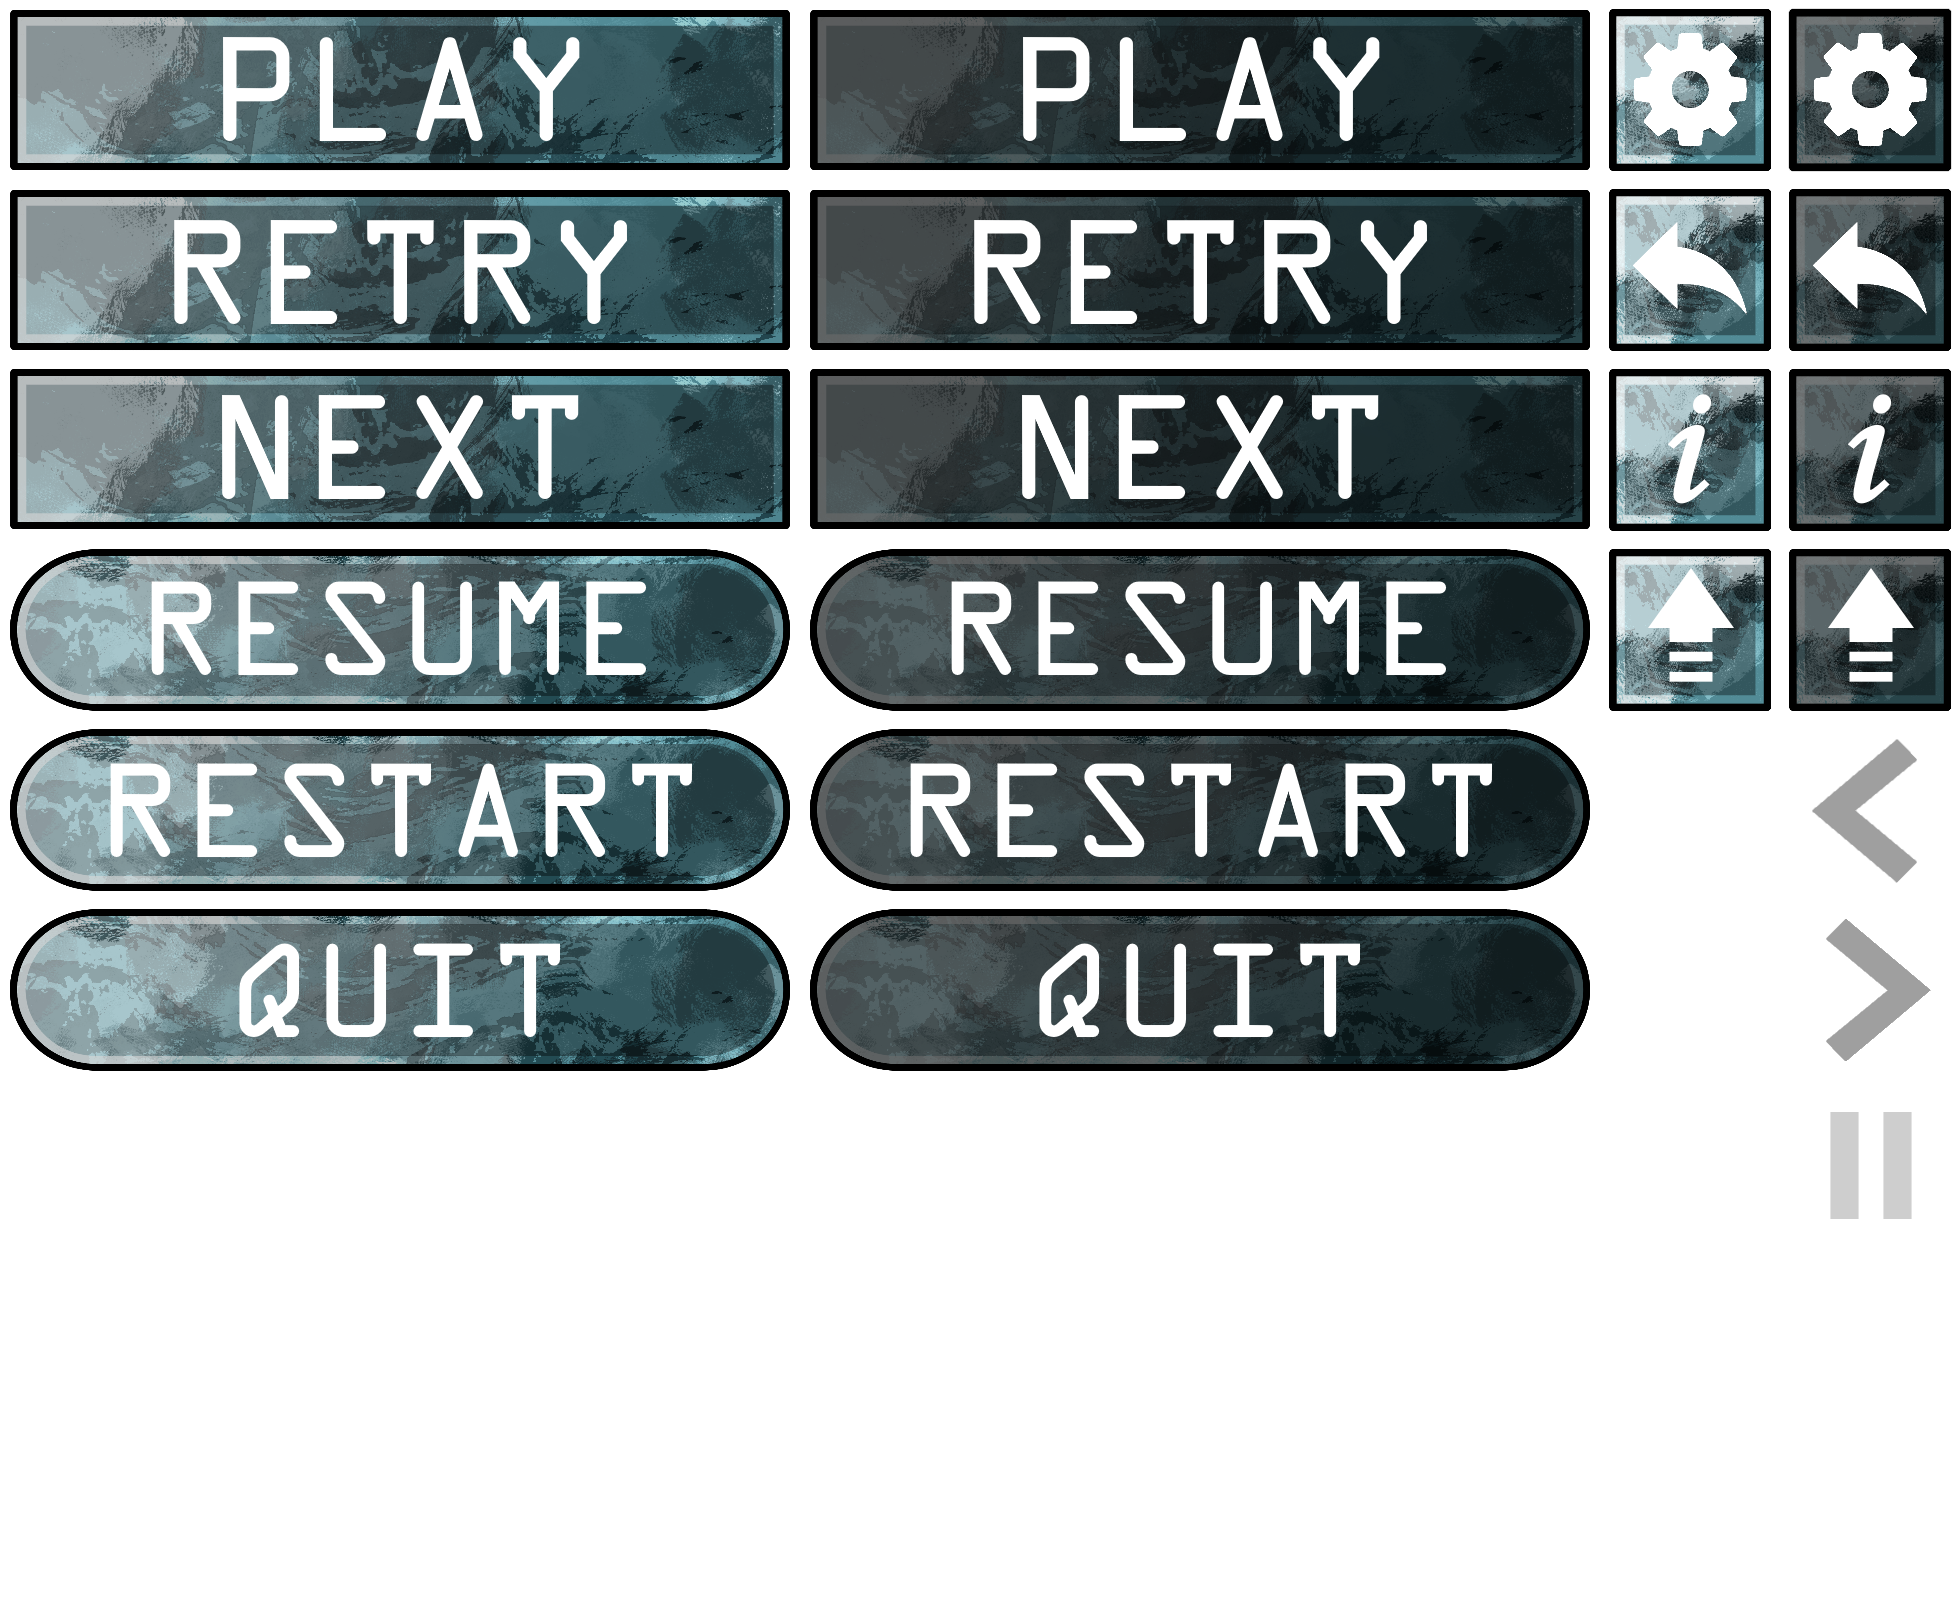
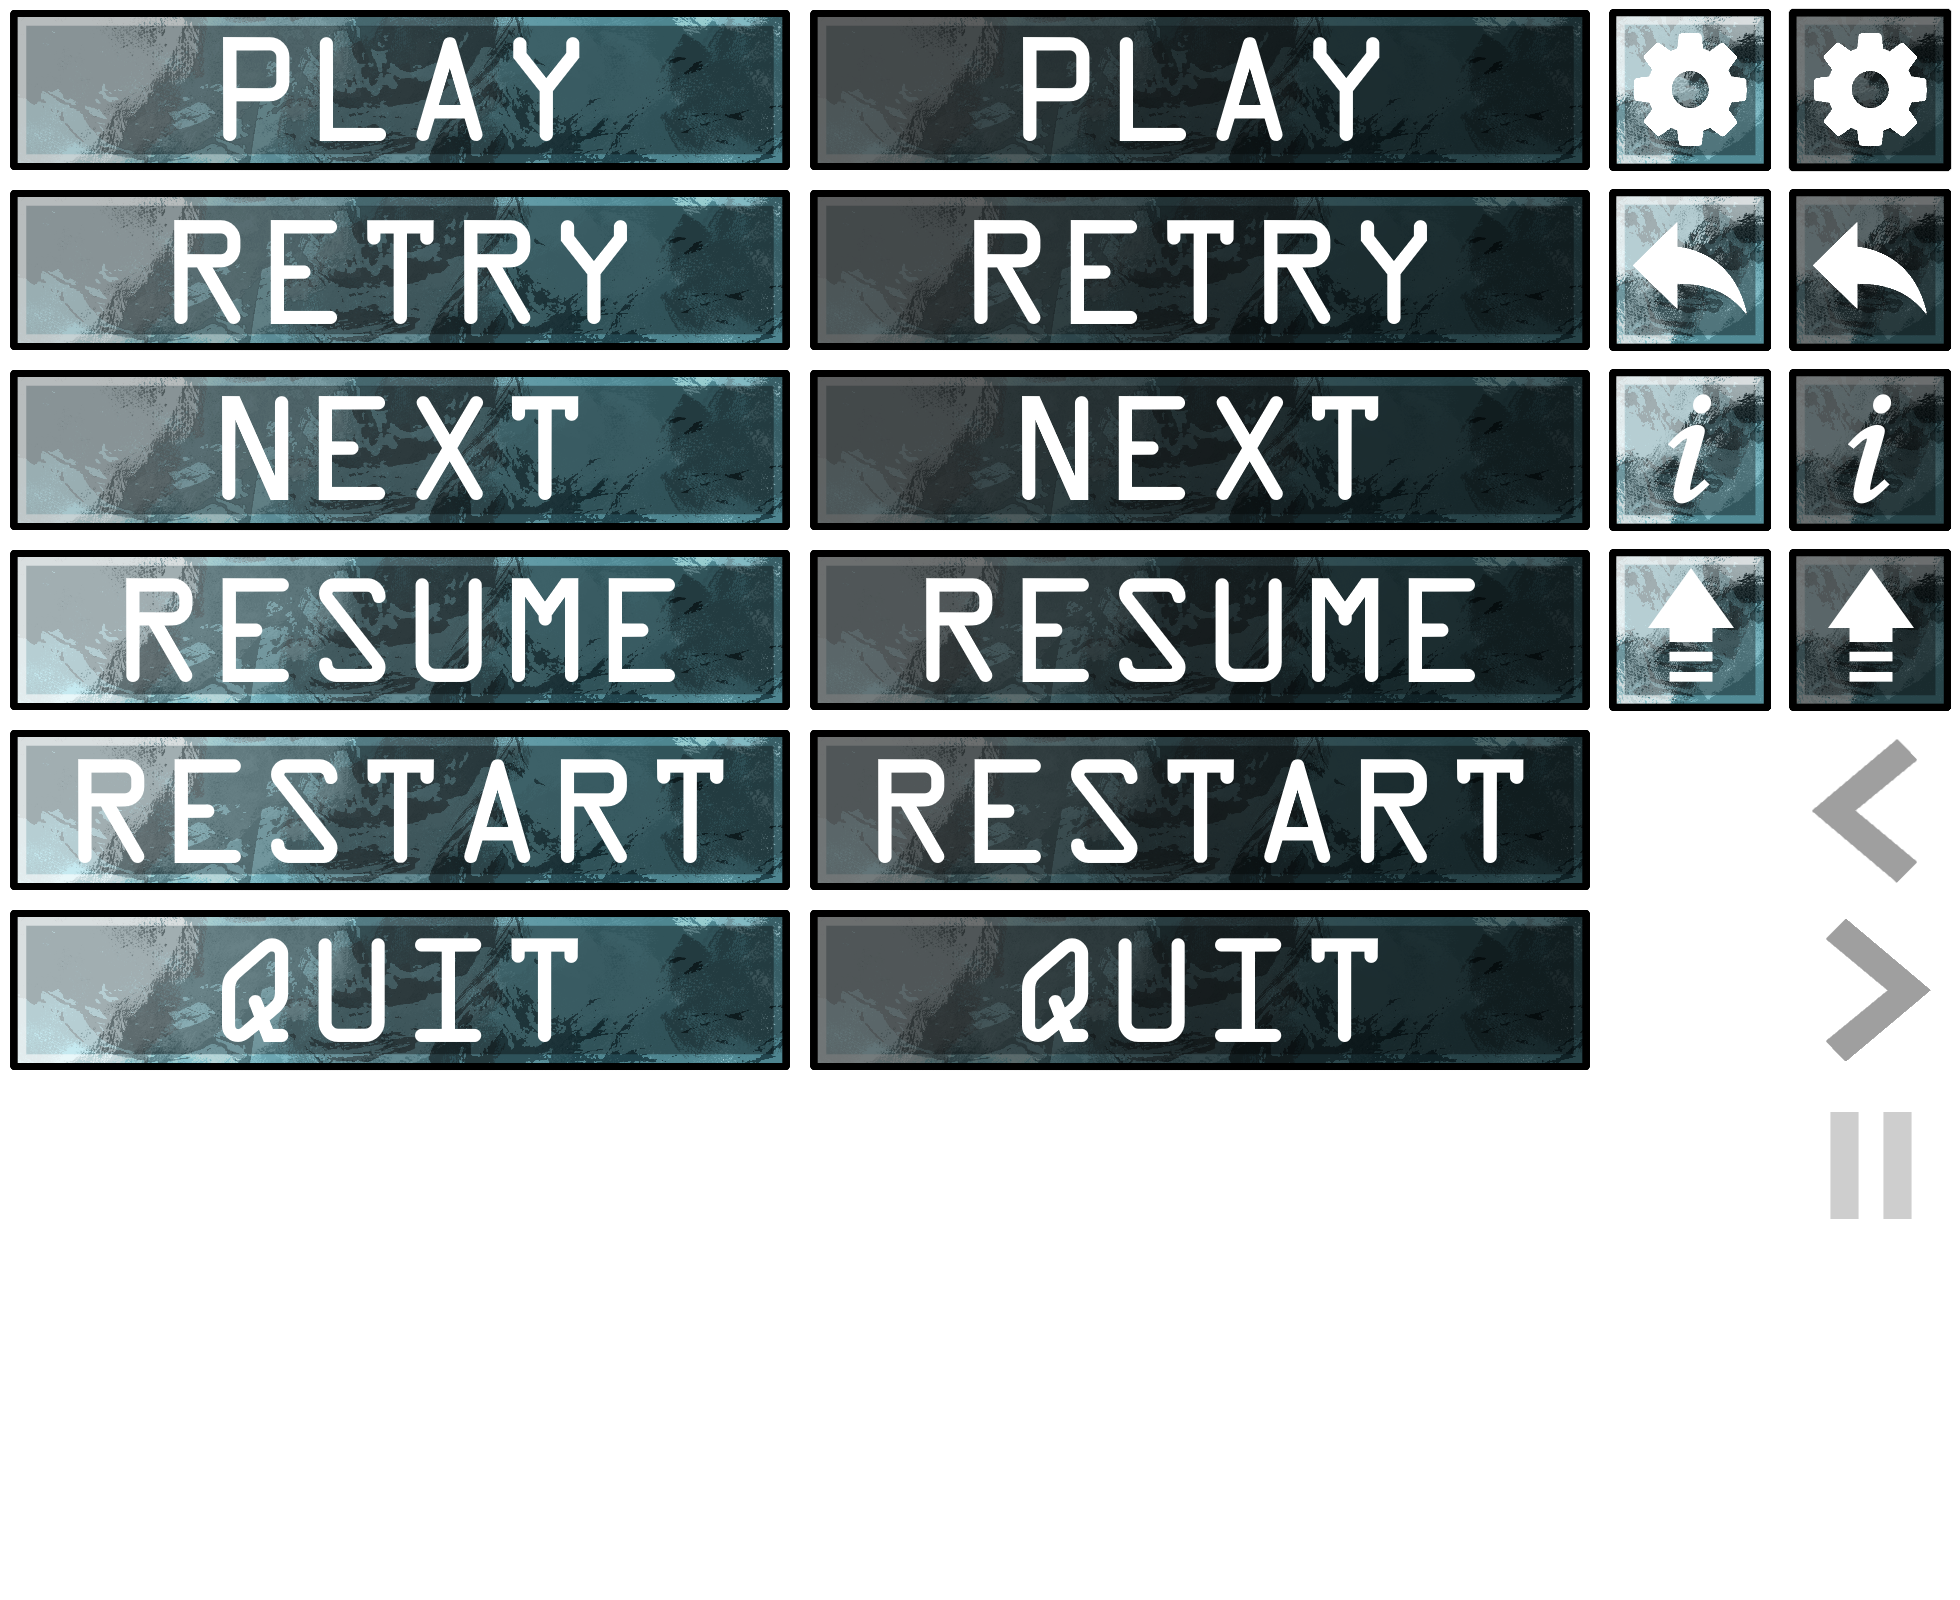
v1.0u1 Alpha
Standardized button format
Updated sprite sheets
Adjusted levels
Improved level win/loss screens
Added developer levels
Misc. minor changes

diff --git a/core/src/io/thebitspud/astroenvoys/levels/Level_Endless.java b/core/src/io/thebitspud/astroenvoys/levels/Level_Endless.java
@@ -32,32 +32,36 @@ public class Level_Endless extends Level {
 		final int y = Gdx.graphics.getHeight();
 		final int scrWidth = Gdx.graphics.getWidth(); // screen width
 
+		for(int i = 0; i < 4; i++) game.spawnEnemy(scrWidth / 8 * (i * 2 + 1), y + 100, EntityID.ASTEROID);
+
 		timers.add(new JTimerUtil(3.0, true, true) {
 			@Override
 			public void onActivation() {
 				game.spawnEnemy(r.nextInt(scrWidth - 100), y, EntityID.ASTEROID);
-				if(getTimerDuration() > 1.0) setTimerDuration(getTimerDuration() * 0.98f);
+				if(getTimerDuration() > 1.0) setTimerDuration(getTimerDuration() * 0.99f);
 			}
 		});
 
-		timers.add(new JTimerUtil(10.0, true, true) {
+		timers.add(new JTimerUtil(3.0, true, true) {
 			@Override
 			public void onActivation() {
 				game.spawnEnemy(r.nextInt(scrWidth - 120), y, EntityID.AZ_RAIDER);
-				if(getTimerDuration() > 2.5) setTimerDuration(getTimerDuration() * 0.95f);
+
+				if(getTimerDuration() == 3.0) setTimerDuration(6.0);
+				else if(getTimerDuration() > 2.5) setTimerDuration(getTimerDuration() * 0.98f);
 			}
 		});
 
-		timers.add(new JTimerUtil(40.0, true, true) {
+		timers.add(new JTimerUtil(20.0, true, true) {
 			@Override
 			public void onActivation() {
 				int x = r.nextInt(scrWidth * 3/5) + scrWidth / 5 - 75;
 				game.spawnEnemy(x, y, EntityID.AZ_HUNTER);
-				if(getTimerDuration() > 6.0) setTimerDuration(getTimerDuration() * 0.90f);
+				if(getTimerDuration() > 6.0) setTimerDuration(getTimerDuration() * 0.95f);
 			}
 		});
 
-		timers.add(new JTimerUtil(100.0, true, true) {
+		timers.add(new JTimerUtil(50.0, true, true) {
 			@Override
 			public void onActivation() {
 				game.spawnEnemy(r.nextInt(scrWidth - 150), y, EntityID.AZ_PREDATOR);
@@ -65,11 +69,11 @@ public class Level_Endless extends Level {
 			}
 		});
 
-		timers.add(new JTimerUtil(250.0, true, true) {
+		timers.add(new JTimerUtil(200.0, true, true) {
 			@Override
 			public void onActivation() {
 				game.spawnEnemy(scrWidth / 2 - 90, y, EntityID.AZ_REAPER);
-				if(getTimerDuration() > 18.0) setTimerDuration(getTimerDuration() * 0.84f);
+				if(getTimerDuration() > 25.0) setTimerDuration(getTimerDuration() * 0.80f);
 			}
 		});
 	}

diff --git a/core/src/io/thebitspud/astroenvoys/screens/WinScreen.java b/core/src/io/thebitspud/astroenvoys/screens/WinScreen.java
@@ -32,17 +32,39 @@ public class WinScreen implements Screen {
 		title.setPosition(midX - (title.getPrefWidth() / 2), Gdx.graphics.getHeight() * 0.75f);
 		title.setAlignment(Align.center);
 
-		ImageButton playButton = new ImageButton(app.assets.buttons[2][0], app.assets.buttons[2][1]);
+		ImageButton nextButton = new ImageButton(app.assets.buttons[2][0], app.assets.buttons[2][1]);
+		nextButton.addListener(new JInputListener() {
+			@Override
+			public void onClick() {
+				app.setScreen(app.levelSelectScreen);
+				app.levelSelectScreen.incrLevelIndex();
+			}
+		});
+		nextButton.setPosition(midX - 400, Gdx.graphics.getHeight() * 0.6f);
+
+		ImageButton playButton = new ImageButton(app.assets.buttons[1][0], app.assets.buttons[1][1]);
 		playButton.addListener(new JInputListener() {
+			@Override
+			public void onClick() {
+				app.setScreen(app.gameScreen);
+				app.gameScreen.game.init();
+			}
+		});
+		playButton.setPosition(midX - 400, Gdx.graphics.getHeight() * 0.45f);
+
+		ImageButton quitButton = new ImageButton(app.assets.buttons[5][0], app.assets.buttons[5][1]);
+		quitButton.addListener(new JInputListener() {
 			@Override
 			public void onClick() {
 				app.setScreen(app.levelSelectScreen);
 			}
 		});
-		playButton.setPosition(midX - 400, Gdx.graphics.getHeight() * 0.6f);
+		quitButton.setPosition(midX - 400, Gdx.graphics.getHeight() * 0.3f);
 
 		stage.addActor(title);
+		stage.addActor(nextButton);
 		stage.addActor(playButton);
+		stage.addActor(quitButton);
 		app.addLoadoutButton(stage);
 		app.addSettingsButton(stage);
 	}

diff --git a/core/src/io/thebitspud/astroenvoys/screens/LevelSelectScreen.java b/core/src/io/thebitspud/astroenvoys/screens/LevelSelectScreen.java
@@ -32,6 +32,8 @@ public class LevelSelectScreen implements Screen {
 		levels.add(new Level_2(app.gameScreen.game));
 		levels.add(new Level_3(app.gameScreen.game));
 		levels.add(new Level_4(app.gameScreen.game));
+		levels.add(new Level_Win(app.gameScreen.game));
+		levels.add(new Level_Loss(app.gameScreen.game));
 
 		currentLevelIndex = 1;
 	}
@@ -92,9 +94,7 @@ public class LevelSelectScreen implements Screen {
 		nextButton.addListener(new JInputListener() {
 			@Override
 			public void onClick() {
-				currentLevelIndex++;
-				if(currentLevelIndex >= levels.size()) currentLevelIndex = 0;
-				updateLevelText();
+				incrLevelIndex();
 			}
 		});
 		nextButton.setPosition((Gdx.graphics.getWidth() * 0.95f) - 180, Gdx.graphics.getHeight() * 0.30f);
@@ -149,5 +149,12 @@ public class LevelSelectScreen implements Screen {
 
 	public Level getSelectedLevel() {
 		return levels.get(currentLevelIndex);
+	}
+
+	public void incrLevelIndex() {
+		currentLevelIndex++;
+		if(currentLevelIndex >= levels.size()) currentLevelIndex = 0;
+
+		updateLevelText();
 	}
 }

diff --git a/core/src/io/thebitspud/astroenvoys/screens/GameScreen.java b/core/src/io/thebitspud/astroenvoys/screens/GameScreen.java
@@ -34,7 +34,7 @@ public class GameScreen implements Screen {
 		InputMultiplexer multiplexer = new InputMultiplexer(hud, gameInput);
 		Gdx.input.setInputProcessor(multiplexer);
 
-		healthIndicator = new Label("HP: 100%", app.assets.subTitleStyle);
+		healthIndicator = new Label("100%", app.assets.subTitleStyle);
 		healthIndicator.setPosition(Gdx.graphics.getWidth() * 0.05f, Gdx.graphics.getHeight() - 100);
 		healthIndicator.setColor(0, 1,0, 0.75f);
 
@@ -94,7 +94,7 @@ public class GameScreen implements Screen {
 	}
 
 	public void setHealthIndicatorText(float percent) {
-		healthIndicator.setText("HP: " + Math.round(percent) + "%");
+		healthIndicator.setText(Math.round(percent) + "%");
 		healthIndicator.setColor(Math.min(100 - percent, 100) / 100f, Math.min(percent, 100) / 100f, 0, 0.75f);
 	}
 }

diff --git a/core/src/io/thebitspud/astroenvoys/levels/Level_3.java b/core/src/io/thebitspud/astroenvoys/levels/Level_3.java
@@ -35,7 +35,7 @@ public class Level_3 extends Level {
 
 		for(int i = 0; i < 4; i++) game.spawnEnemy(scrWidth / 8 * (i * 2 + 1), y + 100, EntityID.ASTEROID);
 
-		timers.add(new JTimerUtil(6, true, true) {
+		timers.add(new JTimerUtil(7, true, true) {
 			@Override
 			public void onActivation() {
 				for(int i = 0; i < 3; i++) game.spawnEnemy(scrWidth / 6 * (i * 2 + 1), y, EntityID.ASTEROID);
@@ -77,7 +77,7 @@ public class Level_3 extends Level {
 			public void onActivation() {
 				if(getTimerDuration() >= 20) setTimerDuration(getTimerDuration() - 5);
 
-				game.spawnEnemy(r.nextInt(scrWidth / 5) + scrWidth * 2/5 - 75, y + 50, EntityID.AZ_HUNTER);
+				game.spawnEnemy(r.nextInt(scrWidth / 5) + scrWidth * 2/5 - 75, y, EntityID.AZ_HUNTER);
 				activations++;
 
 				if(activations == 6) {

diff --git a/core/src/io/thebitspud/astroenvoys/levels/Level_1.java b/core/src/io/thebitspud/astroenvoys/levels/Level_1.java
@@ -32,7 +32,7 @@ public class Level_1 extends Level {
 		final int y = Gdx.graphics.getHeight();
 		final int scrWidth = Gdx.graphics.getWidth(); // screen width
 
-		for(int i = 0; i < 4; i++) game.spawnEnemy(scrWidth / 8 * (i * 2 + 1), y + 100, EntityID.ASTEROID);
+		for(int i = 0; i < 3; i++) game.spawnEnemy(scrWidth / 6 * (i * 2 + 1), y + 100, EntityID.ASTEROID);
 
 		timers.add(new JTimerUtil(100, true, true) {
 			private boolean checked;
@@ -48,7 +48,7 @@ public class Level_1 extends Level {
 			}
 		});
 
-		timers.add(new JTimerUtil(2, true, true) {
+		timers.add(new JTimerUtil(3, true, true) {
 			@Override
 			public void onActivation() {
 				game.spawnEnemy(r.nextInt(scrWidth - 100), y, EntityID.ASTEROID);

diff --git a/core/src/io/thebitspud/astroenvoys/screens/CreditsScreen.java b/core/src/io/thebitspud/astroenvoys/screens/CreditsScreen.java
@@ -27,7 +27,8 @@ public class CreditsScreen implements Screen {
 		title.setPosition((Gdx.graphics.getWidth() - title.getPrefWidth()) / 2, Gdx.graphics.getHeight() * 0.86f);
 		title.setAlignment(Align.center);
 
-		Label creditRoll = new Label("Programming:\nJames Zhong\n\nGame Design:\nJames Zhong\n\nAssets: itch.io,\nOpenGameArt,\nMillionthVector", app.assets.subTitleStyle);
+		Label creditRoll = new Label("Programming:\nThebitspud\n\nGame Design:\nThebitspud\n\nAssets: itch.io," +
+				"\nOpenGameArt,\nMillionthVector", app.assets.subTitleStyle);
 		creditRoll.setPosition(Gdx.graphics.getWidth() * 0.1f, Gdx.graphics.getHeight() * 0.45f);
 
 		stage.addActor(title);

diff --git a/core/src/io/thebitspud/astroenvoys/screens/LossScreen.java b/core/src/io/thebitspud/astroenvoys/screens/LossScreen.java
@@ -42,8 +42,18 @@ public class LossScreen implements Screen {
 		});
 		playButton.setPosition(midX - 400, Gdx.graphics.getHeight() * 0.6f);
 
+		ImageButton quitButton = new ImageButton(app.assets.buttons[5][0], app.assets.buttons[5][1]);
+		quitButton.addListener(new JInputListener() {
+			@Override
+			public void onClick() {
+				app.setScreen(app.levelSelectScreen);
+			}
+		});
+		quitButton.setPosition(midX - 400, Gdx.graphics.getHeight() * 0.45f);
+
 		stage.addActor(title);
 		stage.addActor(playButton);
+		stage.addActor(quitButton);
 		app.addLoadoutButton(stage);
 		app.addSettingsButton(stage);
 	}

diff --git a/core/src/io/thebitspud/astroenvoys/tools/AssetLibrary.java b/core/src/io/thebitspud/astroenvoys/tools/AssetLibrary.java
@@ -56,6 +56,7 @@ public class AssetLibrary extends AssetManager {
 		projectiles[0] = new TextureRegion(this.get("projectiles.png", Texture.class), 0, 0, 25, 50);
 		projectiles[1] = new TextureRegion(this.get("projectiles.png", Texture.class), 25, 0, 25, 50);
 		projectiles[2] = new TextureRegion(this.get("projectiles.png", Texture.class), 50, 0, 40, 60);
+		projectiles[3] = new TextureRegion(this.get("projectiles.png", Texture.class), 90, 0, 40, 60);
 
 		for (int i = 0; i < 6; i++) {
 			buttons[i] = getButton(0, i * 180, 800);

diff --git a/core/src/io/thebitspud/astroenvoys/entities/Player.java b/core/src/io/thebitspud/astroenvoys/entities/Player.java
@@ -26,11 +26,11 @@ public class Player extends Entity {
 		moveSpeed = 1500;
 		setCenter(Gdx.graphics.getWidth() * 0.5f, Gdx.graphics.getHeight() * 0.25f);
 
-		attackTimer = new JTimerUtil(0.2, true, true) {
+		attackTimer = new JTimerUtil(0.25, true, true) {
 			@Override
 			public void onActivation() {
 				app.gameScreen.game.addProjectile((int) getX() + 77, (int) getY() + 50,
-						r.nextInt(100) - 50, 1500, EntityID.ENERGY_SHOT);
+						r.nextInt(100) - 50, 2000, EntityID.HEAVY_ENERGY_SHOT);
 			}
 		};
 	}

diff --git a/core/src/io/thebitspud/astroenvoys/levels/Level_Loss.java b/core/src/io/thebitspud/astroenvoys/levels/Level_Loss.java
@@ -1,0 +1,29 @@
+package io.thebitspud.astroenvoys.levels;
+
+import io.thebitspud.astroenvoys.CampaignGame;
+
+public class Level_Loss extends Level {
+	public Level_Loss(CampaignGame game) {
+		super(game);
+	}
+
+	@Override
+	public String id() {
+		return "Loss";
+	}
+
+	@Override
+	public String title() {
+		return "Automatic Loss";
+	}
+
+	@Override
+	public String desc() {
+		return "Developer level for internal testing";
+	}
+
+	@Override
+	protected void addEvents() {
+		game.endGame(false);
+	}
+}

diff --git a/core/src/io/thebitspud/astroenvoys/levels/Level_Win.java b/core/src/io/thebitspud/astroenvoys/levels/Level_Win.java
@@ -1,0 +1,29 @@
+package io.thebitspud.astroenvoys.levels;
+
+import io.thebitspud.astroenvoys.CampaignGame;
+
+public class Level_Win extends Level {
+	public Level_Win(CampaignGame game) {
+		super(game);
+	}
+
+	@Override
+	public String id() {
+		return "Win";
+	}
+
+	@Override
+	public String title() {
+		return "Automatic Win";
+	}
+
+	@Override
+	public String desc() {
+		return "Developer level for internal testing";
+	}
+
+	@Override
+	protected void addEvents() {
+		game.endGame(true);
+	}
+}
